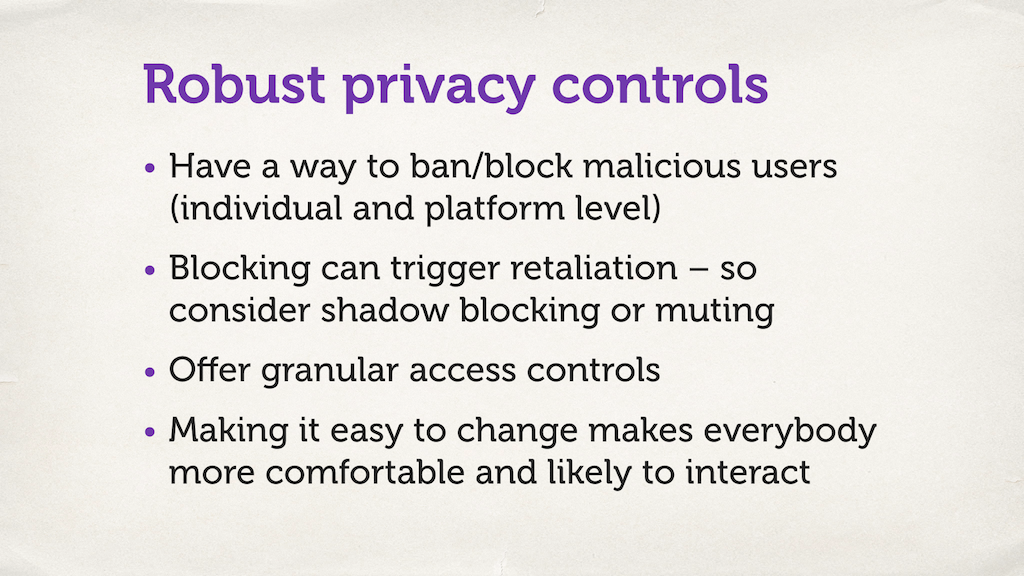
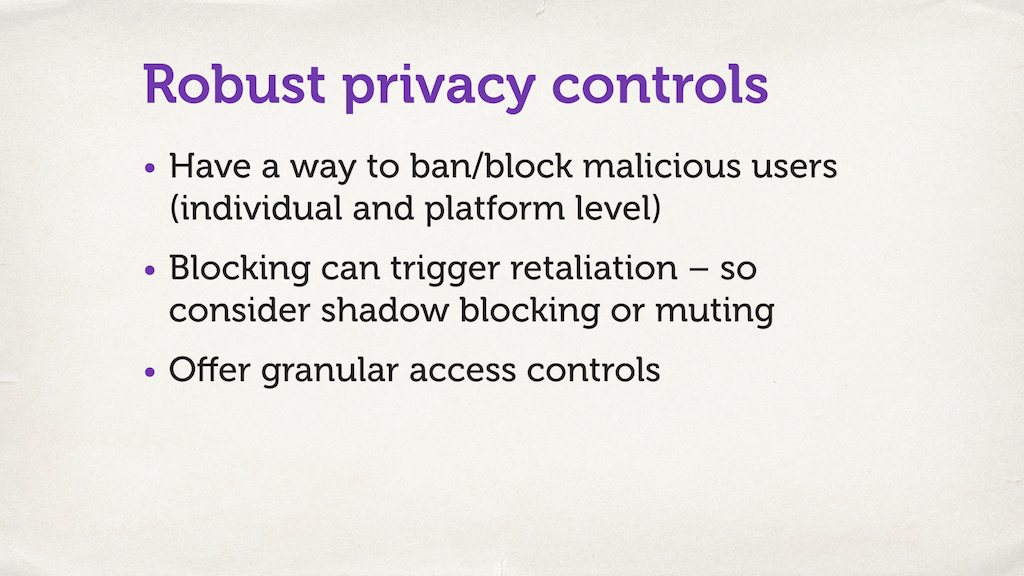
Tidy up some more of the transcript

Changed region(s): [[0.1562, 0.7188, 0.875, 0.8438]]

diff --git a/src/_drafts/assume-worst-intent.md b/src/_drafts/assume-worst-intent.md
@@ -241,135 +241,94 @@ that might have beyond your platform
 
 {% slide assume_worst_intent 11 %}
 
-so
-this is all pretty nasty stuff who's
-doing it I think
+This is all pretty nasty stuff -- who's doing it?
+
+
 
 {% slide assume_worst_intent 12 %}
 
-we often have this as
-the popular image of a hacker a
-malicious person on the Internet and we
-can see they tick all the hacker
-stereotypes they're wearing a hoodie
-there are a darkened basement they have
-green tacks projected on their face
+We have this popular image of a "hacker" -- a malicious person on the Internet.
+This person ticks all the hacker stereotypes -- they're wearing a hoodie, they're in a darkened basement, they have green text projected on their face.
 
-and maybe this is the sort of person we
-need to worry about when we're thinking
-about somebody stealing passwords from
-our database or gaining root access to
-our servers or to doing Mallick doing
-malicious anonymous things again against
-us as a service
+This is the sort of person we need to worry about when we're thinking about somebody stealing passwords from our database, or gaining root access to
+our servers, or doing malicious things against us as a service.
+
+But I'm talking about with harassment is much more targeted -- it's directed against a particular person.
+The sort of people who do online harassment are the same as the people who do personal harassment in the physical world.
+
+
 
 {% slide assume_worst_intent 13 %}
 
-but what I'm really
-talking about with harassment is much
-more targeted it's directed against a
-particular person and the sort of people
-who tend to do online harassment it's
-the same as the people who do personal
-harassment in the real world so let's
-think about who those people might be it
-could be an abusive partner or an ex
-could be family members it could be
-classmates kids often don't have the
-best social skills and we'll say pretty
-mean things co-workers and ex co-workers
-friends and ex friends that one date
-weirdo another thing that the Internet
-has opened up for us
-you know today today you can go online
-there are many online dating sites and
-in many ways this is a wonderful thing
-but now before you ever meet somebody
-they can download your entire Facebook
-profile your Twitter feed your Instagram
-photos they know a huge amount about you
-and if you decide that they didn't go so
-well and they want to they they disagree
-they now have many one wins of finding
-you and tracking you later
-rogue sis admins so what are your sister
-admins doing with your data
-do you trust some of the people who set
-up the early Facebook servers and
-oppressive regimes again well that's
-something we are lucky enough not to
-have to deal with in this country mostly
-but you might if you are building a
-global service you may have users in
-environments like that who would like to
-come after your users who would like to
-come after their data and you need to be
-thinking about that when you build your
-service what you will notice about these
-is that none of these people are
-anonymous hackers who live in it who
-live in a basement in Russia and wear
-hoodies and drink bad coffee Russia are
-not lucky enough to have Brodie's
+So let's think about who those people might be.
+
+*   It could be an **abusive partner or an ex**.
+
+*   It could be **family members**.
+
+*   It could be **classmates**.
+    Kids often don't have the best social skills, and will say pretty mean things.
+
+*   **Co-workers and ex co-workers**.
+
+*   **Friends and ex friends**.
+
+*   **That one-date weirdo**.
+    Another thing that the Internet has opened up for us -- today there are many online dating sites, and in many ways this is a wonderful thing.
+    But now before you ever meet somebody, they can download your entire Facebook profile, your Twitter feed, your Instagram photos.
+    They know a huge amount about you -- and if you decide that the data didn't go so well, and they disagree, they now have many more wins of finding and tracking you later.
+
+*   **Rogue sysadmins**.
+    Do you know what your sysadmins are doing with your customer data?
+
+*   **Oppressive regimes**.
+    Something we're lucky enough not to have to deal with in this country (mostly), but if you're building a global service, you may have users in environments like that.
+    And there are people who'd like to come after your users, who'd like to come after their data.
+    You need to be thinking about that when you build your service too.
+
+What you'll notice about these is that none of these people are anonymous hackers who live in a basement in Russia and wear hoodies and drink bad coffee (Russia aren't lucky enough to have Brodies).
+
+
 
 {% slide assume_worst_intent 14 %}
 
-the pattern we see with online
-harassment is the same as the pattern we
-see with personal harassment people are
-more likely to be caught by people they
-know and this is very scary because a
-lot of the people a lot of people we
-know are inherently more dangerous
-individuals that Anonymous faces people
-on the Internet
-people like our family members or our
-friends they have physical access to us
-they probably know our intimate secrets
-they probably know the answer to your
-security questions
-in fact just out of curiosity put your
-hands up in the room if you know
-somebody else's phone passcode I'm just
-a curious they would say maybe that's
-two-thirds of the room right and you're
-all nice people right right I'm not
-seeing the entire audience nodding which
-is a little bit concerning but imagine
-if you were imagine if you were a nasty
-person imagine if you wanted to go
-through somebody else's mess just go
-through their Facebook feed go through
-their private texts you could do that
-please don't don't try this at home but
-you could do that you have access to do
-that and you know that makes these
-people quite scary and a lot of the ways
-we might otherwise protect ourselves all
-the security all the to factor in the
-world doesn't help if you have physical
-access to a person and their device and
-of course again physical access can go
-beyond just the tools that we think
-about beyond digital tools it can also
-come down to simple acts of physical
-harm somebody who lives 600 miles away
-from me is going to struggle to
-physically hurt me but somebody who
-lives in the same house as me is gonna
-have very little trouble doing that
+The pattern  we see with online harassment is the same as the pattern we see with personal harassment: **people are more likely to be hurt by people they know**.
+
+This is very scary because a lot of the people we know are inherently more dangerous individuals, compared to anonymous faces on the Internet.
+
+People like our family members or our friends.
+They have physical access to us.
+They probably know our intimate secrets
+They probably know the answer to your security questions.
+
+Just out of curiosity, put your hands up in the room if you know somebody else's phone passcode.
+*[Ed. A bunch of hands went up.]*
+Maybe that's two-thirds of the room?
+And you're all nice people, right?
+Right?
+(I'm not seeing the entire audience nodding, which is a little bit concerning.)
+Imagine if you were a nasty person.
+If you wanted to go through somebody else's messages, go through their Facebook feed, go through their private texts -- you could do that!
+You have access to do that.
+
+Physical access makes these people quite scary, and nullifies a lot of the ways we might otherwise protect ourselves.
+All the security in the world doesn't help if you have physical access to a person and their device.
+
+And physical access can go beyond just our digital tools -- it can also come down to simple acts of physical harm.
+Somebody who lives 600 miles away is going to struggle to physically hurt me, but somebody who lives in the same house as me will have very little trouble doing that.
+
+
 
 {% slide assume_worst_intent 15 %}
 
-so
-this is all very upsetting there are
-horrible people in the world they do
-horrible things they might be living in
-the same house as you so maybe we should
-all go and hide under a tin foil black
-under a tin foil blanket and never leave
-our room this would not be particularly
-productive
+This is all very upsetting.
+
+There are horrible people in the world, they do horrible things, they might be living in the same house as you.
+Maybe we should all go and hide under a tin foil blanket and never leave our room.
+
+This would not be particularly productive.
+
+
 
 {% slide assume_worst_intent 17 %}
 
@@ -686,49 +645,42 @@ think about that
 
 {% slide assume_worst_intent 31 %}
 
-this is one of the
-things that Twitter actually gets right
-they have a blocking feature this is
-what it looks like
-so I blocked somebody here
+This is one of the things that Twitter actually gets right.
+They have a blocking feature.
+This is what it looks like if I've blocked you.
+
+
 
 {% slide assume_worst_intent 32 %}
 
-what you'll
-notice though is that they tell you that
-so it says you are blocked from
-following Alex WL Chan and viewing Alex
-WL trans tweets and imagine you went to
-my Twitter profile of this after this
-talking you saw that would that make you
-feel happy respected like I you were
-somebody that I liked
-hopefully not um you'll probably feel
-you'll probably feel quite annoyed quite
-upset at me and you might decide to take
-that out on me right
+What you'll notice though is that *they tell you*.
+
+It says "You are blocked from following alexwlchan and viewing alexwlchan's tweets".
+Imagine you went to my Twitter profile after this talk and that's what you saw. Would that make you feel happy?
+Respected?
+Like you were somebody that I liked?
+
+No.
+You'd probably feel quite annoyed.
+Quite upset at me.
+You might decide to take that out on me, right?
+
+
 
 {% slide assume_worst_intent 33 %}
 
-imagine that we
-were living in the same house and you
-discover that I block to you that might
-be its own trigger for retaliation so
-another thing you can look at things
-like shadow blocking muting allow people
-to block somebody without ever being
-visible to the other person their block
-avoiding that regular voice that that
-possibility of retribution offer
-granular access controls so the default
-is public private but you can go much
-more you can go more granular than that
-you could have followers only so that's
-the Twitter model I can only post it I
-can post things that only pre-approve
-followers can see maybe only Mutual's
-only down to the level of individual
-users
+Imagine that we were living in the same house, and you discover that I'd blocked you.
+That might be its own trigger for retaliation -- so another thing you can look at things like **shadow blocking** and muting.
+Allow people to block somebody without it being visible to the other person that they're blocked.
+You can avoid that trigger for retaliation.
+
+Offer granular access controls.
+The default is public/private, but you can go much more you can go more granular than that.
+Twitter's model is to allow posting things only to pre-approved followers, or maybe mutuals only, or down to the level of individual users.
+
+*[Ed. Mutuals only is a feature being offered [by Pillowfort](https://twitter.com/pillowfort_io/status/1025070021993799681). I haven't tried it yet, but I like the idea.]*
+
+
 
 {% slide assume_worst_intent 34 %}
 
@@ -765,14 +717,8 @@ later and again
 
 {% slide assume_worst_intent 35 %}
 
-often granular access
-controls it makes it if you make it
-easier to change people are more
-comfortable because they don't have to
-publish something with the entire world
-see and that's going to make them more
-likely to interact up more engagement as
-people like to say
+If you make it easier to change posting visibility, people are more comfortable.
+They don't have to publish something to the entire world -- and that makes them more comfortable, and more likely to use your service.
 
 {% slide assume_worst_intent 29 %}
 
@@ -791,21 +737,17 @@ Because you don't have context -- you don't know everything that happens on (or 
 
 {% slide assume_worst_intent 39 %}
 
-here's an
-example of a text I got this morning
-someone sent me a picture of a flower
-they're thinking of me as a friend from
-home and they now I've got this big talk
-today that's really nice if it's the if
-it's the stalker who rang my hotel room
-six times last night and left me a bunch
-of flowers at reception that's perhaps
-not so nice but if that's the only two
-things your moderators can see your
-machine can see it doesn't know how to
-make decision based on that you need
-that you need the additional context
-that goes with it
+Here's an example of a text I got this morning.
+Someone sent me a picture of a flower -- they're thinking of me.
+
+If it's a friend from home, and they now I've got this big talk today, that's really nice.
+If it's the stalker who rang my hotel room six times last night, and left a bunch of flowers at reception, that's not so nice.
+The message has a very different meaning depending on who sent it,
+
+If that's the only two things your system can see, you don't have enough information to make a decision.
+You need the additional context that goes with it; you need to know my relationship with the sender.
+
+
 
 {% slide assume_worst_intent 40 %}
 
@@ -882,8 +824,13 @@ Because if you don't answer those questions, somebody else will answer them for 
 
 Thank you all very much.
 
+Fin.
+
 ---
 
-##
+## Q&A
+
+I didn't take audience Q&A in this session, partly for time and partly because it's a topic that gets derailed easily.
+My preference is always to have conversations in the hallway track.
 
 https://twitter.com/hannahintech
